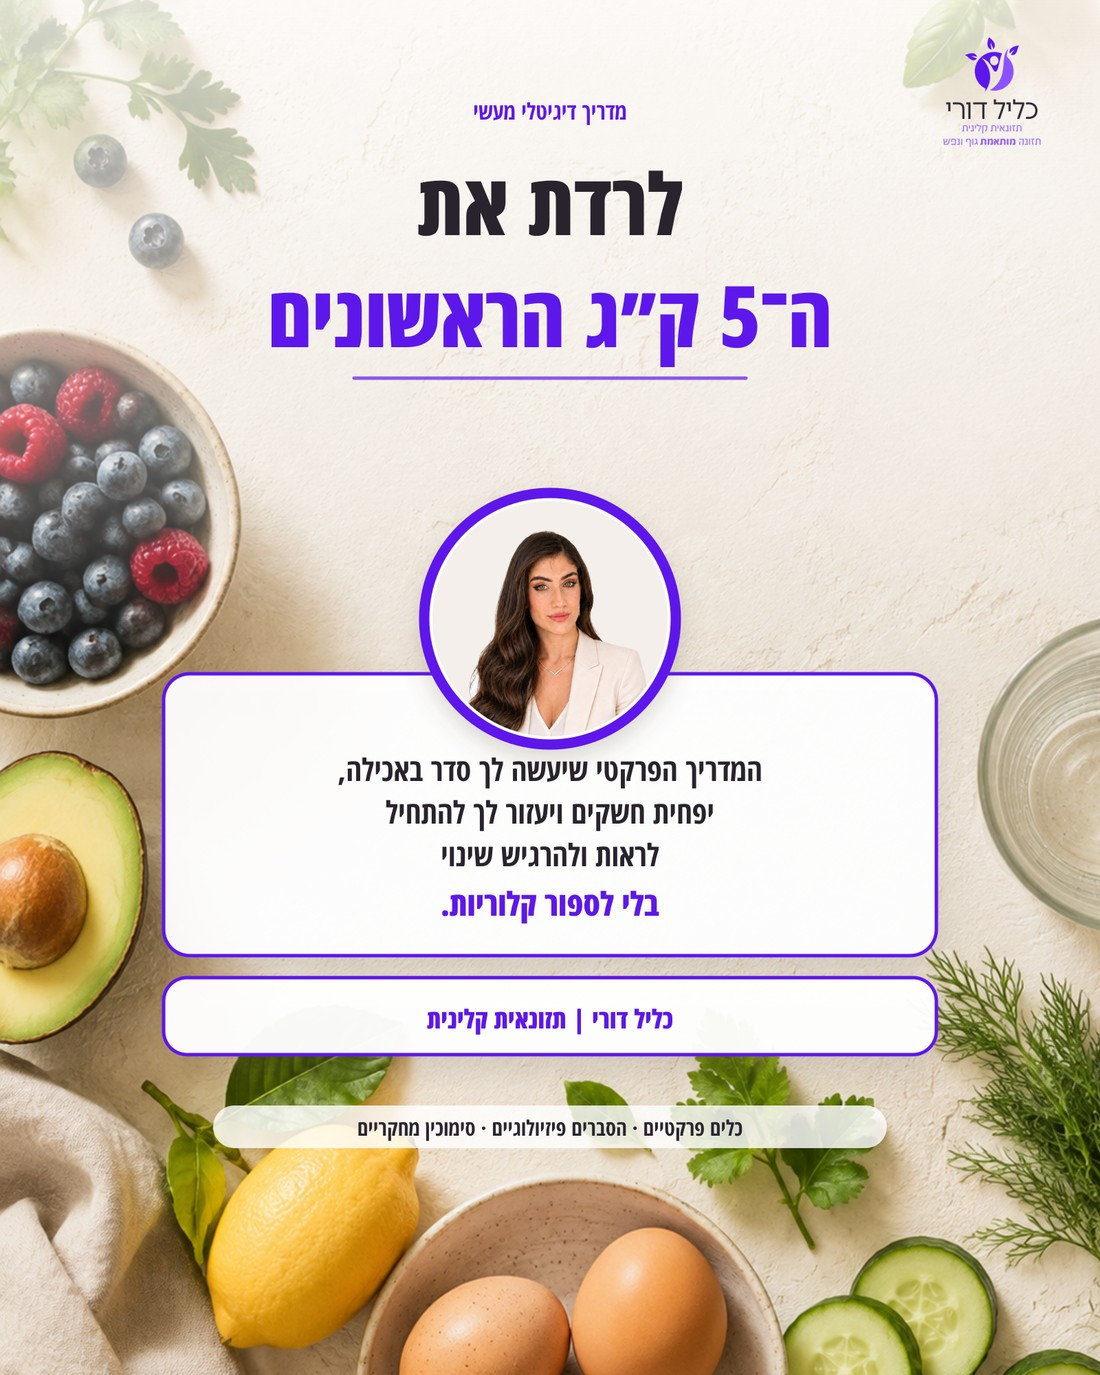
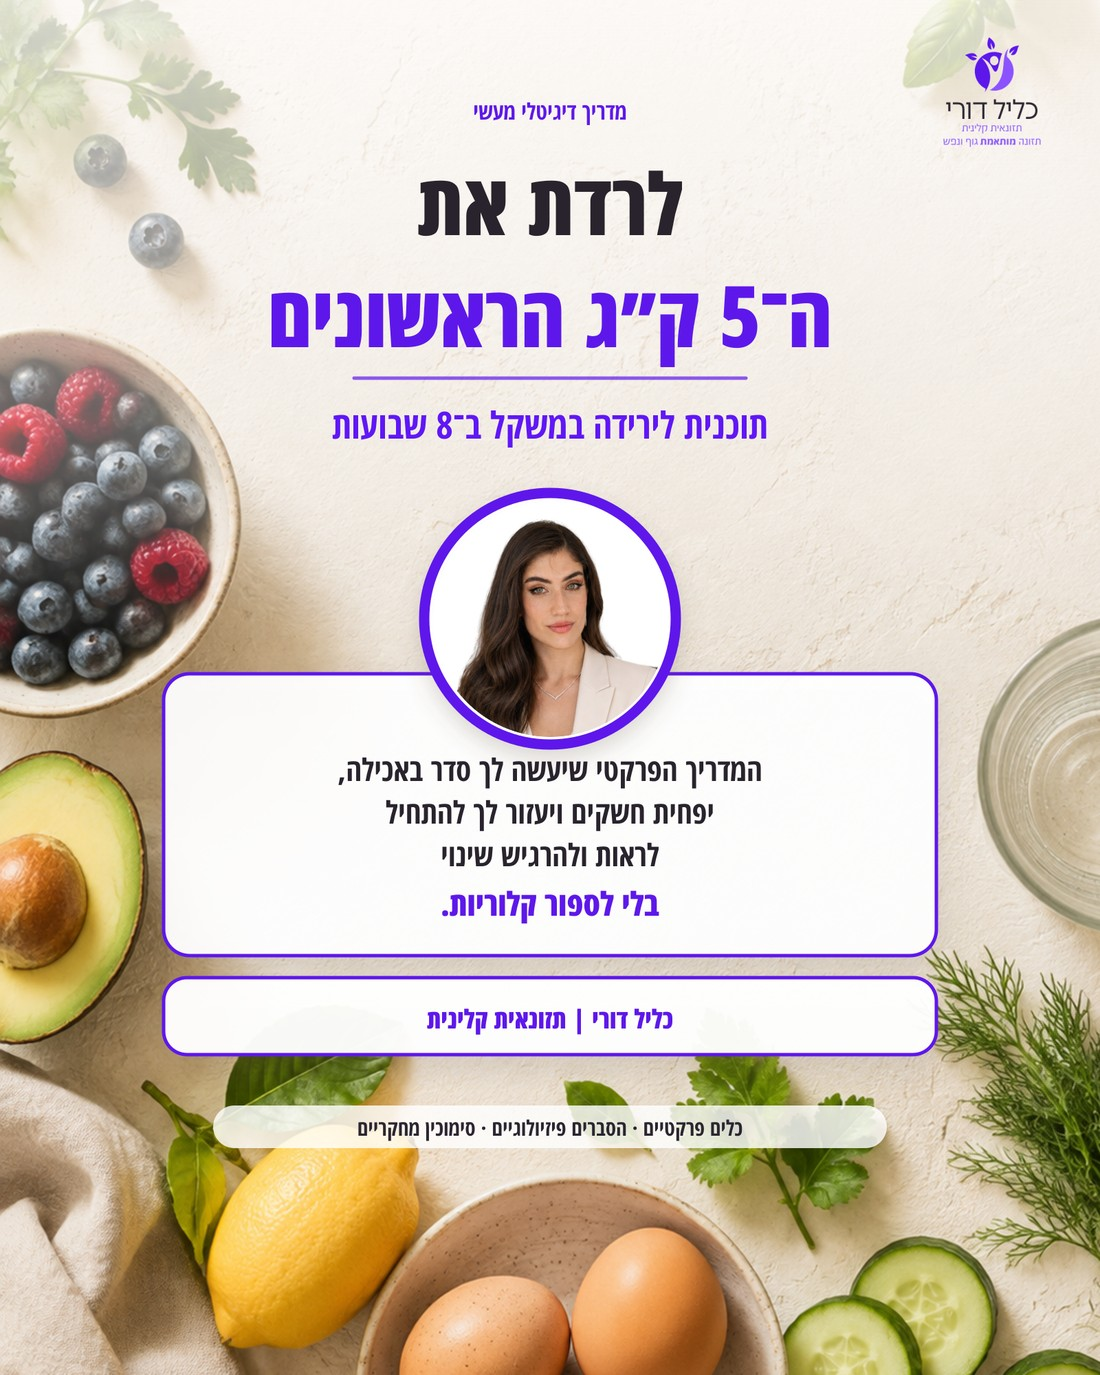
Update guide product copy, subtitle and cover; drop leading-product ribbon
- Remove the "המוצר המוביל שלנו · מבצע השקה" ribbon per the updated doc
- Subtitle -> "מדריך דיגיטלי פרקטי לירידה במשקל ב־8 שבועות"
- Replace body copy with the revised 8-week text (two paragraphs visible,
  the third behind "המשך קריאה"); drop the now-redundant accent line
- Swap in the updated product cover art

Claude-Session: https://claude.ai/code/session_015psgekYawNoaW768xKEKv5

Changed region(s): [[0.4018, 0.3665, 0.5873, 0.5498], [0.3091, 0.2749, 0.7109, 0.336]]

diff --git a/src/components/ProductsSection.tsx b/src/components/ProductsSection.tsx
@@ -1,6 +1,6 @@
 import { useState } from "react";
 import { motion, AnimatePresence } from "framer-motion";
-import { ChevronRight, ChevronLeft, ChevronDown, ChevronUp, ShoppingBag, Sparkles } from "lucide-react";
+import { ChevronRight, ChevronLeft, ChevronDown, ChevronUp, ShoppingBag } from "lucide-react";
 import recipeBook from "@/assets/recipe-cover.jpg";
 import guideCover from "@/assets/guide-5kg-cover.jpg";
 import cardsCoverNew from "@/assets/cards-title.jpg";
@@ -9,9 +9,11 @@ import cardSlide17 from "@/assets/card-slide-17.png";
 
 const cardExamples = [cardsCoverNew, cardSlide13, cardSlide17];
 
-const guideShort = 'בניתי את המדריך מתוך הניסיון שצברתי בטיפול במאות מטופלים לאורך השנים, במטרה להפוך את הצעד הראשון לשינוי לפשוט, ברור וקל ליישום. המדריך מרכז צעדים מעשיים שיעזרו לך לעשות סדר באכילה, לחזק את תחושת השובע, לתמוך באיזון המטבולי ולהטמיע הרגלים שמקדמים ירידה במשקל ובריאות לאורך זמן.';
+const guideShort = `בניתי את המדריך מתוך הניסיון שצברתי בטיפול במאות מטופלים לאורך השנים, במטרה להפוך את הצעד הראשון לפשוט, ברור וקל ליישום.
 
-const guideFull = `הכלים במדריך פשוטים וישימים, ואפשר להתחיל לבצע אותם כבר היום, ללא הכנה מיוחדת ומבלי לשנות את כל השגרה בבת אחת. שינוי משמעותי מתחיל בצעד אחד מדויק, והמדריך יעזור לך לעשות את הצעד הזה בקלות, לבנות מסגרת פעולה שמתאימה לאורח החיים שלך ולהתחיל לראות תוצאות, בלי לספור קלוריות ובלי צעדים קיצוניים.`;
+המדריך בנוי כתוכנית הדרגתית בת שמונה שבועות, שתלווה אותך צעד אחר צעד בדרך לשינוי שאפשר להתמיד בו. הוא יעזור לך לעשות סדר באכילה, לחזק את תחושת השובע, לתמוך באיזון המטבולי ולהטמיע הרגלים שמקדמים ירידה במשקל ושיפור הבריאות לאורך זמן.`;
+
+const guideFull = `הכלים במדריך פשוטים וישימים, ואפשר להתחיל ליישם אותם כבר מהיום הראשון, ללא הכנה מיוחדת ומבלי לשנות את כל השגרה בבת אחת. כך אפשר לבנות בהדרגה מסגרת פעולה שמתאימה לאורח החיים שלך ולהניע שינוי משמעותי, בלי לספור קלוריות ובלי צעדים קיצוניים.`;
 
 const recipeShort = 'חוברת מתכונים דיגיטלית שנבנתה במיוחד עבור אנשים עם רגישות לגלוטן וללקטוז, וגם עבור מי שמתמודד ביום יום עם נפיחות, גזים או יציאות לא סדירות, אבל עדיין לא הצליח לזהות מה גורם לזה.';
 
@@ -67,19 +69,11 @@ const ProductsSection = () => {
             transition={{ duration: 0.6 }}
             className="rounded-3xl bg-gradient-to-br from-purple-50 via-white to-purple-50/50 border-2 border-primary/25 shadow-xl overflow-hidden hover:shadow-2xl transition-shadow duration-300"
           >
-            <div className="bg-gradient-purple px-6 py-2.5 text-center">
-              <p className="inline-flex items-center gap-2 font-display text-sm md:text-base font-bold text-white">
-                <Sparkles className="h-4 w-4 shrink-0" />
-                המוצר המוביל שלנו · מבצע השקה
-              </p>
-            </div>
-
             <div className="flex flex-col md:flex-row-reverse items-center gap-6 p-6 md:p-10">
               <div className="flex-1 text-right">
                 <h3 className="font-display text-2xl md:text-3xl font-bold text-foreground mb-1">לרדת את ה־5 ק״ג הראשונים</h3>
-                <p className="text-muted-foreground font-body text-sm mb-3">מדריך דיגיטלי מעשי.</p>
-                <p className="text-xs text-primary/80 font-body font-semibold mb-4">בלי לספור קלוריות ובלי צעדים קיצוניים.</p>
-                <p className="text-muted-foreground font-body text-sm leading-[1.75] mb-4">
+                <p className="text-muted-foreground font-body text-sm mb-4">מדריך דיגיטלי פרקטי לירידה במשקל ב־8 שבועות.</p>
+                <p className="text-muted-foreground font-body text-sm leading-[1.75] whitespace-pre-line mb-4">
                   {guideShort}
                 </p>
                 {guideExpanded && (
